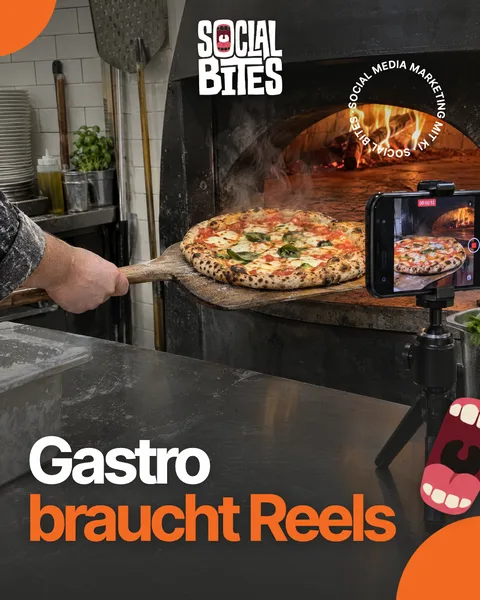
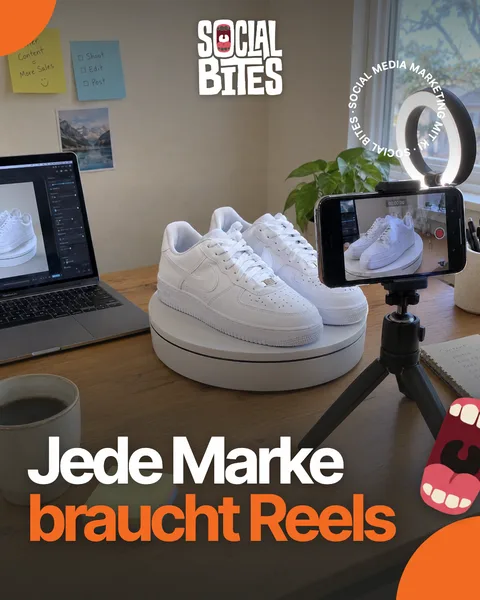
Website und Kundenportal aktualisiert

diff --git a/socialmedia/posts.js b/socialmedia/posts.js
@@ -85,13 +85,13 @@ window.SM_POSTS=[
  },
  {
   "id": 7,
-  "titel": "Gastro braucht Reels",
+  "titel": "Jede Marke braucht Reels",
   "stil": "ghost",
-  "caption": "Gäste entscheiden heute schon vor der Tür, ob sie reingehen. Kurze Reels von Essen, Küche und Team zeigen, wie es bei dir schmeckt und wie es sich anfühlt. Das ist Werbung, die nichts kostet außer Zeit.",
-  "tags": "#gastro #gastronomie #restaurantmarketing #reels #berlin",
+  "caption": "Kunden entscheiden heute schon vor dem Kauf, ob sie dir vertrauen. Kurze Reels vom Produkt, vom Team und vom Alltag zeigen, wie es bei dir wirklich ist. Das ist Werbung, die nicht nach Werbung aussieht.",
+  "tags": "#reels #socialmediamarketing #contentstrategie #marke #berlin",
   "punkte": [
-   "Gäste suchen online",
-   "Essen in Bewegung",
+   "Kunden suchen online",
+   "Das Produkt in Bewegung",
    "Zeig die Menschen"
   ],
   "datum": "16.10.2026",
